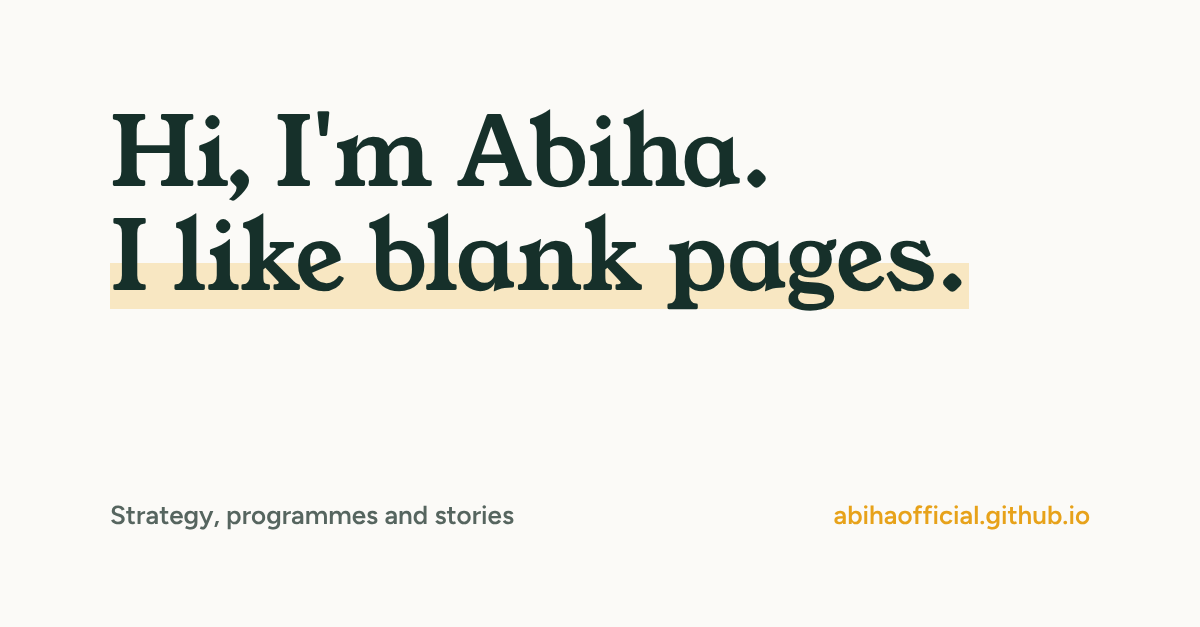
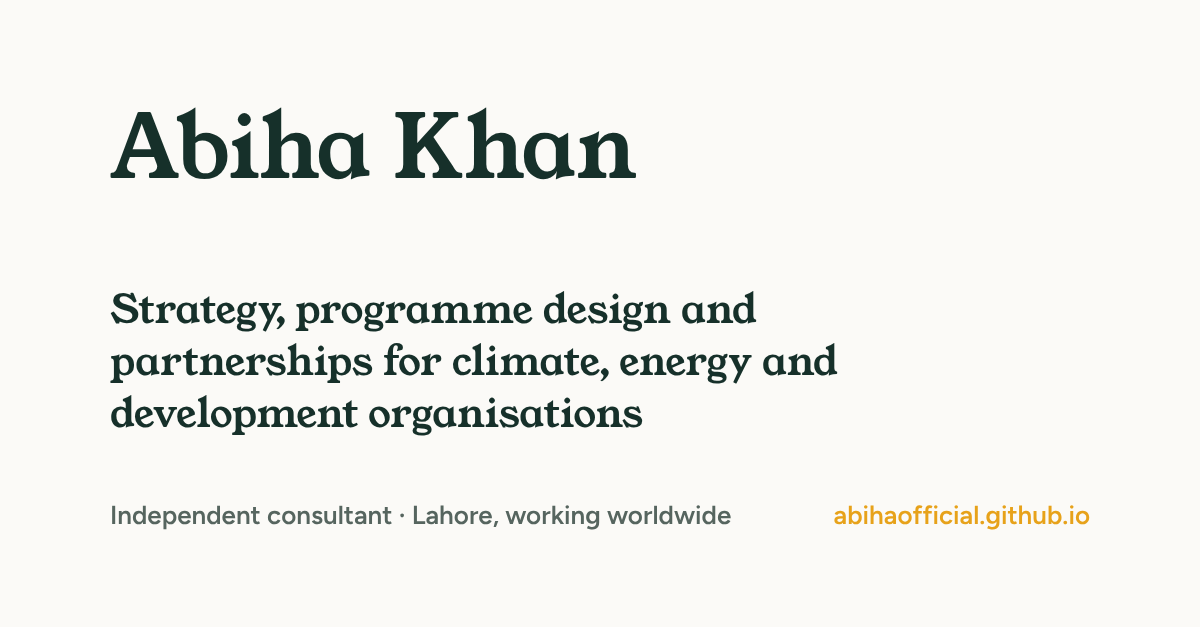
Rewrite as professional profile

Changed region(s): [[0.0925, 0.1818, 0.8325, 0.6364], [0.0925, 0.6364, 0.555, 0.697], [0.0925, 0.7879, 0.6167, 0.8485]]

diff --git a/index.html b/index.html
@@ -4,11 +4,11 @@
 <meta charset="utf-8">
 <meta name="viewport" content="width=device-width, initial-scale=1, viewport-fit=cover">
 <title>Abiha Khan</title>
-<meta name="description" content="Abiha Khan builds new programmes, strategies and partnerships for climate, energy and development work, and stays until they run.">
+<meta name="description" content="Abiha Khan is an independent strategy, programme and partnerships consultant for climate, energy and development organisations.">
 <meta property="og:type" content="website">
 <meta property="og:url" content="https://abihaofficial.github.io/">
-<meta property="og:title" content="Abiha Khan: I like blank pages">
-<meta property="og:description" content="I build new programmes, strategies and partnerships for climate, energy and development work, and stay until they run.">
+<meta property="og:title" content="Abiha Khan | Strategy, programmes and partnerships">
+<meta property="og:description" content="Independent consultant for climate, energy and development organisations: programme design, strategy, coalitions and strategic communications.">
 <meta property="og:image" content="https://abihaofficial.github.io/share.png">
 <meta property="og:image:width" content="1200">
 <meta property="og:image:height" content="627">
@@ -17,71 +17,67 @@
 <link rel="preconnect" href="https://fonts.gstatic.com" crossorigin>
 <link rel="stylesheet" href="https://fonts.googleapis.com/css2?family=Young+Serif&family=Source+Serif+4:ital,opsz,wght@0,8..60,400;0,8..60,600;1,8..60,400&family=Figtree:wght@500;600&display=swap">
 <style>
-/* Layout: a personal letter. One narrow reading column, stories told in order, generous space, very little decoration. */
+/* Layout: a single reading column, written like a strong profile a search firm would send to a client. */
 /* EDIT COLOURS HERE */
 :root{
-  --paper:#FBFAF7; --ink:#16302A; --soft:#56655F; --rule:#DCE2DE; --mark:#E7A21A; --mark-soft:#F8E7C2;
+  --paper:#FBFAF7; --ink:#16302A; --soft:#56655F; --rule:#DCE2DE; --mark:#C98A0E;
   --display:"Young Serif",Georgia,"Times New Roman",serif;
   --body:"Source Serif 4",Georgia,"Times New Roman",serif;
   --ui:"Figtree","Helvetica Neue",Arial,sans-serif;
 }
 @media (prefers-color-scheme: dark){:root:not([data-theme="light"]){
-  --paper:#101815; --ink:#E9EEEB; --soft:#A2B1AA; --rule:#26332E; --mark:#F0B53D; --mark-soft:#3A3018; color-scheme:dark}}
+  --paper:#101815; --ink:#E9EEEB; --soft:#A2B1AA; --rule:#26332E; --mark:#F0B53D; color-scheme:dark}}
 :root[data-theme="dark"]{
-  --paper:#101815; --ink:#E9EEEB; --soft:#A2B1AA; --rule:#26332E; --mark:#F0B53D; --mark-soft:#3A3018; color-scheme:dark}
+  --paper:#101815; --ink:#E9EEEB; --soft:#A2B1AA; --rule:#26332E; --mark:#F0B53D; color-scheme:dark}
 *{box-sizing:border-box}
 body{margin:0;background:var(--paper);color:var(--ink);font-family:var(--body);font-size:1.15rem;line-height:1.7;
   padding-left:max(16px,env(safe-area-inset-left,0px));padding-right:max(16px,env(safe-area-inset-right,0px));padding-block:0}
-.col{max-width:680px;margin:0 auto}
-h1,h2,h3{font-family:var(--display);font-weight:400;margin:0;line-height:1.15;text-wrap:balance}
+.col{max-width:700px;margin:0 auto}
+h1,h2,h3{font-family:var(--display);font-weight:400;margin:0;line-height:1.18;text-wrap:balance}
 p{margin:0}
 p+p{margin-top:1em}
 a{color:inherit;text-decoration-color:var(--mark);text-decoration-thickness:2px;text-underline-offset:4px}
 a:hover{color:var(--soft)}
 a:focus-visible,button:focus-visible{outline:2px solid var(--mark);outline-offset:3px}
 .ui{font-family:var(--ui);font-size:.85rem;font-weight:600;letter-spacing:.02em}
-mark{background:linear-gradient(transparent 58%,var(--mark-soft) 58%);color:inherit;padding:0 .1em}
 
 header.top{display:flex;justify-content:space-between;align-items:center;gap:12px;flex-wrap:wrap;padding-block:24px}
 header.top nav{display:flex;gap:20px;flex-wrap:wrap}
 header.top nav a{text-decoration:none;color:var(--soft)}
 header.top nav a:hover{color:var(--ink)}
 
-.hero{padding-block:72px 64px}
-.hero h1{font-size:clamp(2.6rem,7vw,4.2rem)}
-.hero .lead{margin-top:28px;font-size:1.35rem;line-height:1.6}
-.hero .now{margin-top:28px;color:var(--soft);font-size:1.05rem}
+.hero{padding-block:64px 56px}
+.hero .ui{color:var(--mark)}
+.hero h1{font-size:clamp(2.2rem,5.6vw,3.4rem);margin-top:14px}
+.hero .lead{margin-top:26px;font-size:1.3rem;line-height:1.6}
 
-section{padding-block:56px;border-top:1px solid var(--rule)}
-section > h2{font-size:clamp(1.7rem,4vw,2.3rem);margin-bottom:12px}
-.intro{color:var(--soft);margin-bottom:40px}
+section{padding-block:52px;border-top:1px solid var(--rule)}
+section > h2{font-size:clamp(1.6rem,3.6vw,2.1rem);margin-bottom:22px}
 
-.story{padding-block:28px}
-.story + .story{border-top:1px dashed var(--rule)}
-.story .where{color:var(--mark);display:block;margin-bottom:8px}
-.story h3{font-size:1.5rem;margin-bottom:14px}
-.story .learned{margin-top:16px;padding-left:16px;border-left:2px solid var(--mark);font-style:italic;color:var(--soft)}
+.offer{display:flex;flex-direction:column;gap:22px}
+.offer h3{font-size:1.25rem;margin-bottom:6px}
 
-.work p{max-width:62ch}
-.ways{margin-top:28px;display:flex;flex-direction:column;gap:16px}
-.way{display:grid;grid-template-columns:150px minmax(0,1fr);gap:16px;align-items:baseline}
-.way .ui{color:var(--soft)}
+.role{padding-block:22px}
+.role + .role{border-top:1px dashed var(--rule)}
+.role .where{color:var(--mark);display:block;margin-bottom:6px}
+.role h3{font-size:1.3rem;margin-bottom:10px}
 
-.questions{list-style:none;margin:0;padding:0;display:flex;flex-direction:column;gap:22px}
-.questions strong{font-family:var(--display);font-weight:400;font-size:1.2rem;display:block;margin-bottom:4px}
-.questions span{color:var(--soft)}
+.list{margin:0;padding-left:1.1em;display:flex;flex-direction:column;gap:12px}
 
-.contact h2{font-size:clamp(2rem,5vw,2.8rem)}
-.reach{margin-top:24px;display:flex;flex-wrap:wrap;gap:14px 24px;align-items:center}
+.sectors{display:flex;flex-wrap:wrap;gap:10px;margin-top:22px;padding:0;list-style:none}
+.sectors li{font-family:var(--ui);font-size:.9rem;font-weight:500;border:1px solid var(--rule);border-radius:999px;padding:6px 14px}
+
+.contact h2{font-size:clamp(1.8rem,4.4vw,2.4rem)}
+.reach{margin-top:22px;display:flex;flex-wrap:wrap;gap:14px 24px;align-items:center}
 .reach span{overflow-wrap:anywhere;user-select:all}
 .copy{font-family:var(--ui);font-size:.8rem;font-weight:600;background:transparent;color:var(--ink);border:1.5px solid var(--ink);border-radius:999px;padding:6px 14px;cursor:pointer}
 .copy:hover{background:var(--ink);color:var(--paper)}
-footer{padding-block:32px 48px;color:var(--soft);border-top:1px solid var(--rule);display:flex;justify-content:space-between;flex-wrap:wrap;gap:12px}
+.creds{margin-top:28px;color:var(--soft)}
+footer{padding-block:32px 48px;color:var(--soft);border-top:1px solid var(--rule)}
 
 @media (max-width:560px){
   body{font-size:1.08rem}
-  .hero{padding-block:44px 40px}
-  .way{grid-template-columns:minmax(0,1fr);gap:2px}
+  .hero{padding-block:40px 36px}
 }
 </style>
 </head>
@@ -91,95 +87,111 @@ footer{padding-block:32px 48px;color:var(--soft);border-top:1px solid var(--rule
   <header class="top">
     <span class="ui">Abiha Khan</span>
     <nav class="ui" aria-label="Sections">
-      <a href="#stories">Stories</a><a href="#work">Work with me</a><a href="#questions">Questions</a><a href="#write">Write</a>
+      <a href="#offer">What I offer</a><a href="#experience">Experience</a><a href="#projects">Projects</a><a href="#contact">Contact</a>
     </nav>
   </header>
 
   <!-- HERO -->
   <div class="hero">
-    <h1>Hi, I'm Abiha. I like blank pages.</h1>
-    <p class="lead">I'm usually the first person in the room when something new is being built: the first strategy hire, the first communications hire, the first name on a new workstream. I build the thing, find the people who should run it, and <mark>stay until it works without me.</mark></p>
-    <p class="now">These days I work independently from Lahore with climate, energy and development teams.</p>
+    <span class="ui">Independent consultant · Lahore, working worldwide</span>
+    <h1>Strategy, programme design and partnerships for climate, energy and development organisations</h1>
+    <p class="lead">I design new programmes and strategies, bring the right partners and funders behind them, and stay through launch so the people who will run them can carry them forward. My work has spanned an energy transition think tank, a global clean energy network, a diplomatic mission, an offshore wind non-profit and an AI content studio, across Pakistan, the UK, Southeast Asia and international convenings.</p>
   </div>
 
-  <!-- STORIES -->
-  <section id="stories">
-    <h2>A few stories</h2>
-    <p class="intro">Organisation names are left out on purpose. The work is real, and I'm happy to talk about any of it.</p>
-
-    <article class="story">
-      <span class="where ui">An energy think tank · Islamabad</span>
-      <h3>The strategy nobody wanted to read</h3>
-      <p>I joined as the first strategy hire. Everyone agreed the organisation needed a strategy, and nobody was looking forward to reading one.</p>
-      <p>So I started with conversations, not a template. I sat with leadership and every programme team, listened for the things people said in the corridor but never wrote down, and turned it into a plan short enough for the board to actually decide on. The team grew from fifteen to thirty-five while we did it.</p>
-      <p class="learned">Plain words are a form of respect.</p>
-    </article>
-
-    <article class="story">
-      <span class="where ui">A global clean energy network · Istanbul</span>
-      <h3>Fifty people in one room</h3>
-      <p>I was the first person on a new workstream inside a global network. It began as a concept note and a lot of good intentions.</p>
-      <p>Most of the real work happened before anyone booked a flight: months of calls and drafts with members in more than twenty countries, agreeing the words we could all stand behind. By the time fifty of us met in Istanbul, the room already knew what it was there to do.</p>
-      <p class="learned">A convening is mostly what happens before the room.</p>
-    </article>
-
-    <article class="story">
-      <span class="where ui">An AI content studio · Indonesia and Pakistan</span>
-      <h3>Teaching creators, learning from them</h3>
-      <p>I signed creators in two countries to tell clean energy stories, negotiated their rates, and wrote the contracts.</p>
-      <p>Then I designed a full training programme for creators in Indonesia: what to teach, in what order, and how. Writing it made me ask a question I still carry: when AI makes a story easier to tell, what keeps it honest?</p>
-      <p class="learned">The people closest to an audience usually know more than the people briefing them.</p>
-    </article>
-
-    <article class="story">
-      <span class="where ui">A foreign embassy · Islamabad</span>
-      <h3>Writing in someone else's voice</h3>
-      <p>For almost two years I wrote an Ambassador's speeches, talking points and press releases, and hosted national events as MC.</p>
-      <p>I learned to disappear into another person's voice, and to explain grant programmes and development finance to ministries, journalists and business groups who each needed something different from the same facts. I also grew the embassy's Twitter from zero.</p>
-      <p class="learned">Good writing for someone else sounds like them on their best day.</p>
-    </article>
-
-    <article class="story">
-      <span class="where ui">London Climate Action Week · RSA House</span>
-      <h3>Three minutes</h3>
-      <p>In June 2026 I gave a firestarter talk with exactly three minutes to say something worth remembering. I spent them on one idea: what changes when the people using the power also own it.</p>
-      <p class="learned">Short is harder than long, and worth it.</p>
-    </article>
-  </section>
-
-  <!-- WORK WITH ME -->
-  <section id="work" class="work">
-    <h2>Working together</h2>
-    <p>I'm most useful when something needs to exist and doesn't yet: a new programme, a strategy a board can act on, a coalition that needs to agree on its words, or a story that funders and the public will both understand. I listen first, write something people can argue with, and stay through launch.</p>
-    <div class="ways">
-      <div class="way"><span class="ui">A few weeks</span><p>One clear piece of work: a strategy draft, a funding proposal, a messaging framework or a partner map.</p></div>
-      <div class="way"><span class="ui">A few months</span><p>A new programme or workstream, designed, launched and handed over to the people who will run it.</p></div>
-      <div class="way"><span class="ui">Ongoing</span><p>A few days a month on call for strategy, proposals and the moments that matter.</p></div>
+  <!-- VALUE -->
+  <section id="offer">
+    <h2>What I offer</h2>
+    <div class="offer">
+      <div>
+        <h3>Programmes designed to run, not just to read</h3>
+        <p>I take a new country or regional programme from concept to first delivery, shaping the model, the workplan, the partners and the training together with the team who will own it after I leave.</p>
+      </div>
+      <div>
+        <h3>Strategy that boards and funders can act on</h3>
+        <p>I write organisational strategies and funding proposals in plain language, built on interviews with leadership and programme teams, with clear choices, owners and risks that a board can decide on in one sitting.</p>
+      </div>
+      <div>
+        <h3>Coalitions that agree before they meet</h3>
+        <p>I bring governments, funders, think tanks and companies into shared positions, doing the drafting and member alignment ahead of a convening so the room can spend its time on decisions.</p>
+      </div>
+      <div>
+        <h3>Communications that carry complex policy</h3>
+        <p>I turn energy policy, development finance and technical analysis into speeches, briefs, press material and creator-led content that each audience can understand and repeat.</p>
+      </div>
     </div>
   </section>
 
-  <!-- QUESTIONS -->
-  <section id="questions">
-    <h2>Questions I'm sitting with</h2>
-    <ul class="questions" style="margin-top:24px">
-      <li><strong>What is a job, once AI does half of it?</strong><span>I use these tools every day. I'm more interested in which parts of work stay human than in how fast the rest goes.</span></li>
-      <li><strong>Who owns the energy transition?</strong><span>The people paying for it, using it and living next to it should have more say than they usually get.</span></li>
-      <li><strong>Can good work also be beautiful?</strong><span>I care about craft, in a well-cut jacket or a well-made document. I think it's a way of taking people seriously.</span></li>
+  <!-- EXPERIENCE -->
+  <section id="experience">
+    <h2>Experience</h2>
+
+    <article class="role">
+      <span class="where ui">Energy transition think tank · Pakistan · 2024 to 2026</span>
+      <h3>Senior Associate, Strategy and Partnerships</h3>
+      <p>As the organisation's first strategy hire, I wrote its multi-year strategy from leadership interviews and programme workplans, ran a three-year strategic risk analysis covering circular debt, political economy and the renewable opportunity, and co-authored grant proposals while the team grew from fifteen to thirty-five people.</p>
+    </article>
+
+    <article class="role">
+      <span class="where ui">Global clean energy network · International · 2024 to 2026</span>
+      <h3>Co-Convener of a new workstream</h3>
+      <p>As the first person on the workstream, I wrote its grant proposal, session framings and briefings, aligned members across more than twenty countries on shared positions, and brought it to a fifty-person inaugural convening in Istanbul, followed by an intervention on energy transition framing at a diplomacy convening in Nairobi.</p>
+    </article>
+
+    <article class="role">
+      <span class="where ui">AI content studio · Pakistan and Indonesia · 2026</span>
+      <h3>Managing Partner</h3>
+      <p>I led partnerships and operations for a studio telling clean energy stories, building and contracting creator partnerships in two countries, designing a full capacity-building programme for creators in Indonesia, and speaking on customer-owned clean electrification at London Climate Action Week.</p>
+    </article>
+
+    <article class="role">
+      <span class="where ui">Offshore wind non-profit · London · 2024</span>
+      <h3>Project Officer and Communications Lead</h3>
+      <p>As the first communications hire, I produced press, newsletter and event communications for a major offshore wind summit and managed the project pipeline and stakeholder reporting across four markets in Asia and Latin America.</p>
+    </article>
+
+    <article class="role">
+      <span class="where ui">Foreign embassy · Islamabad · 2021 to 2022</span>
+      <h3>Secretary and Communications Lead to the Ambassador</h3>
+      <p>I drafted the Ambassador's speeches and talking points, led communications for an eight-million-dollar development grant programme and a long-term development finance framework, and worked with ministries, media and business groups on trade, health and development partnerships.</p>
+    </article>
+  </section>
+
+  <!-- PROJECTS -->
+  <section id="projects">
+    <h2>Projects I take on</h2>
+    <ul class="list">
+      <li>Designing and launching new country, regional or thematic programmes, including partner models, workplans and capacity-building curricula.</li>
+      <li>Writing organisational strategies and strategic risk analyses for think tanks, networks and foundations.</li>
+      <li>Drafting funding proposals and donor materials for philanthropic and multilateral funders.</li>
+      <li>Setting up and running coalitions, member networks and convenings, from concept note to the room.</li>
+      <li>Strategic communications and messaging for leadership, including speeches, briefs and campaign narratives.</li>
+    </ul>
+    <p style="margin-top:22px">I work in focused sprints of a few weeks, programme builds of three to six months, or a monthly retainer, and I scope every engagement in a short call before quoting.</p>
+
+    <h2 style="font-size:1.4rem;margin-top:40px">Sectors</h2>
+    <ul class="sectors">
+      <li>Clean energy and power markets</li>
+      <li>Offshore wind and renewables</li>
+      <li>Climate policy and diplomacy</li>
+      <li>Development finance and grants</li>
+      <li>Philanthropy and global networks</li>
+      <li>Digital content and the creator economy</li>
     </ul>
   </section>
 
   <!-- CONTACT -->
-  <section id="write" class="contact">
-    <h2>Building something new? I'd love to hear about it.</h2>
+  <section id="contact" class="contact">
+    <h2>Get in touch</h2>
+    <p style="margin-top:14px">I am available for consultancies, retainers and senior programme roles.</p>
     <div class="reach">
       <span id="email">abiha@alumni.schwarzmanscholars.org</span>
       <button class="copy" id="copy-email" type="button">Copy email</button>
       <a href="https://www.linkedin.com/in/abihafnu" target="_blank" rel="noopener">LinkedIn</a>
     </div>
-    <p class="ui" style="margin-top:28px;color:var(--soft)">Schwarzman Scholar · BS (Hons) Management, University of the Punjab · English, Urdu, Hindi</p>
+    <p class="creds ui">Schwarzman Scholar, Master's in Global Affairs · BS (Hons) Management, University of the Punjab · English, Urdu, Hindi</p>
   </section>
 
-  <footer class="ui"><span>© 2026 Abiha Khan</span><span>Written and built in Lahore</span></footer>
+  <footer class="ui">© 2026 Abiha Khan</footer>
 </div>
 
 <script>
